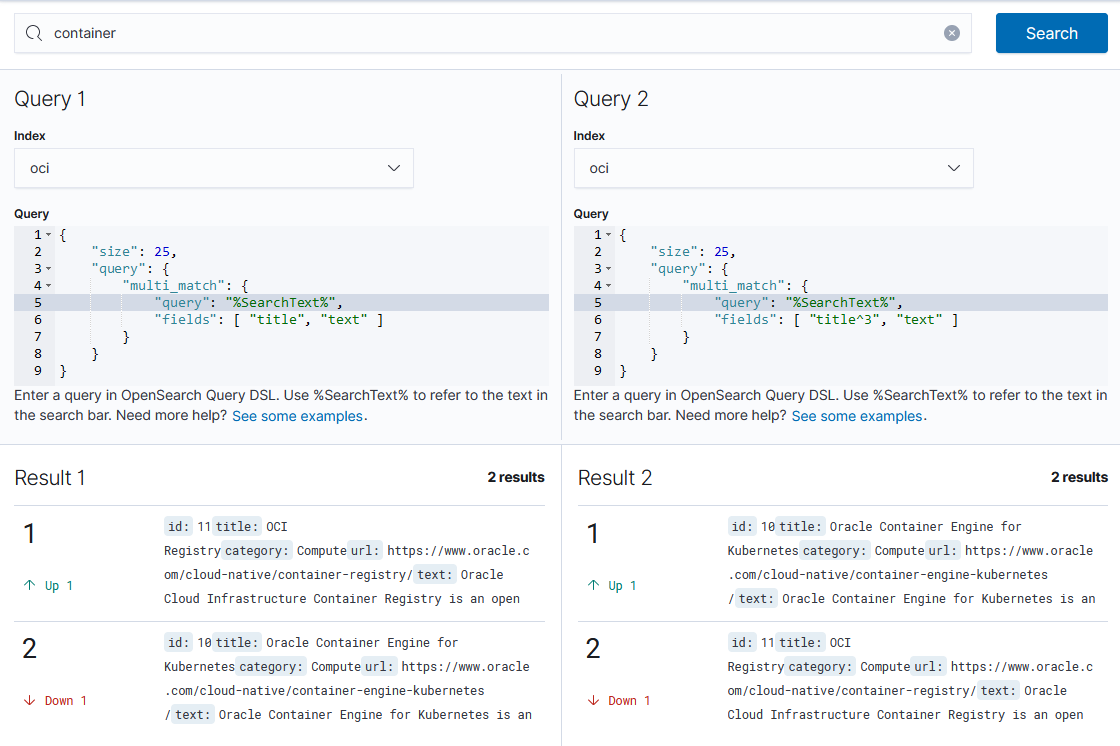
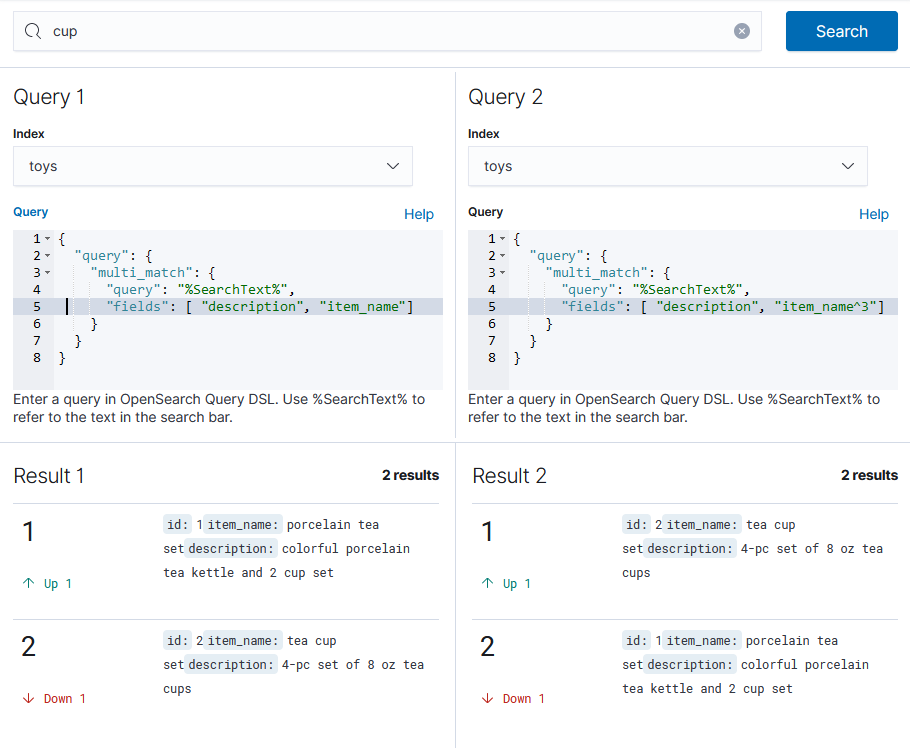
Changed image for compare search results

diff --git a/_search-plugins/search-relevance/index.md b/_search-plugins/search-relevance/index.md
@@ -49,7 +49,7 @@ The following is an example query:
   "query": {
     "multi_match": {
       "query": "%SearchText%",
-      "fields": [ "title", "text" ]
+      "fields": [ "description", "item_name" ]
     }
   }
 }
@@ -64,7 +64,7 @@ The following example query boosts the `title` field in search results:
   "query": {
     "multi_match": {
       "query": "%SearchText%",
-      "fields": [ "title^3", "text" ]
+      "fields": [ "description", "item_name^3" ]
     }
   }
 }
@@ -72,11 +72,11 @@ The following example query boosts the `title` field in search results:
 
 **Step 5:** Select **Search** and compare the results in **Result 1** and **Result 2**.
 
-The following example screen shows a search for the word "container" in the `title` and `text` fields with and without boosting the `title`:
+The following example screen shows a search for the word "cup" in the `description` and `item_name` fields with and without boosting the `item_name`:
 
 <img src="{{site.url}}{{site.baseurl}}/images/search_relevance.png" alt="Compare search results"/>{: .img-fluid }
 
-If a result in Result 1 appears in Result 2, the `Up` and `Down` indicators below the result number signify how many places the result moved up or down compared to the same result in Result 2. In this example, the document with the ID 10 is `Up 1` place in Result 2 compared to Result 1 and `Down 1` place in Result 1 compared to Result 2. 
+If a result in Result 1 appears in Result 2, the `Up` and `Down` indicators below the result number signify how many places the result moved up or down compared to the same result in Result 2. In this example, the document with the ID 2 is `Up 1` place in Result 2 compared to Result 1 and `Down 1` place in Result 1 compared to Result 2. 
 
 ## Changing the number of results
 
